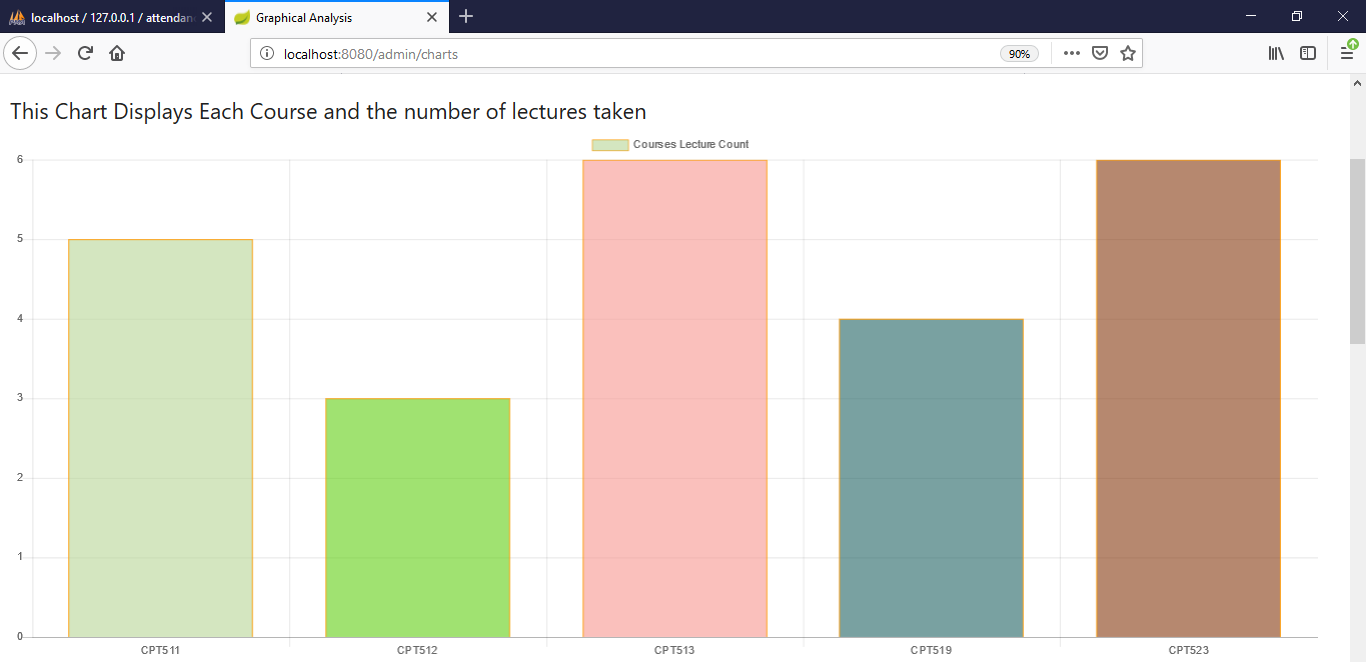
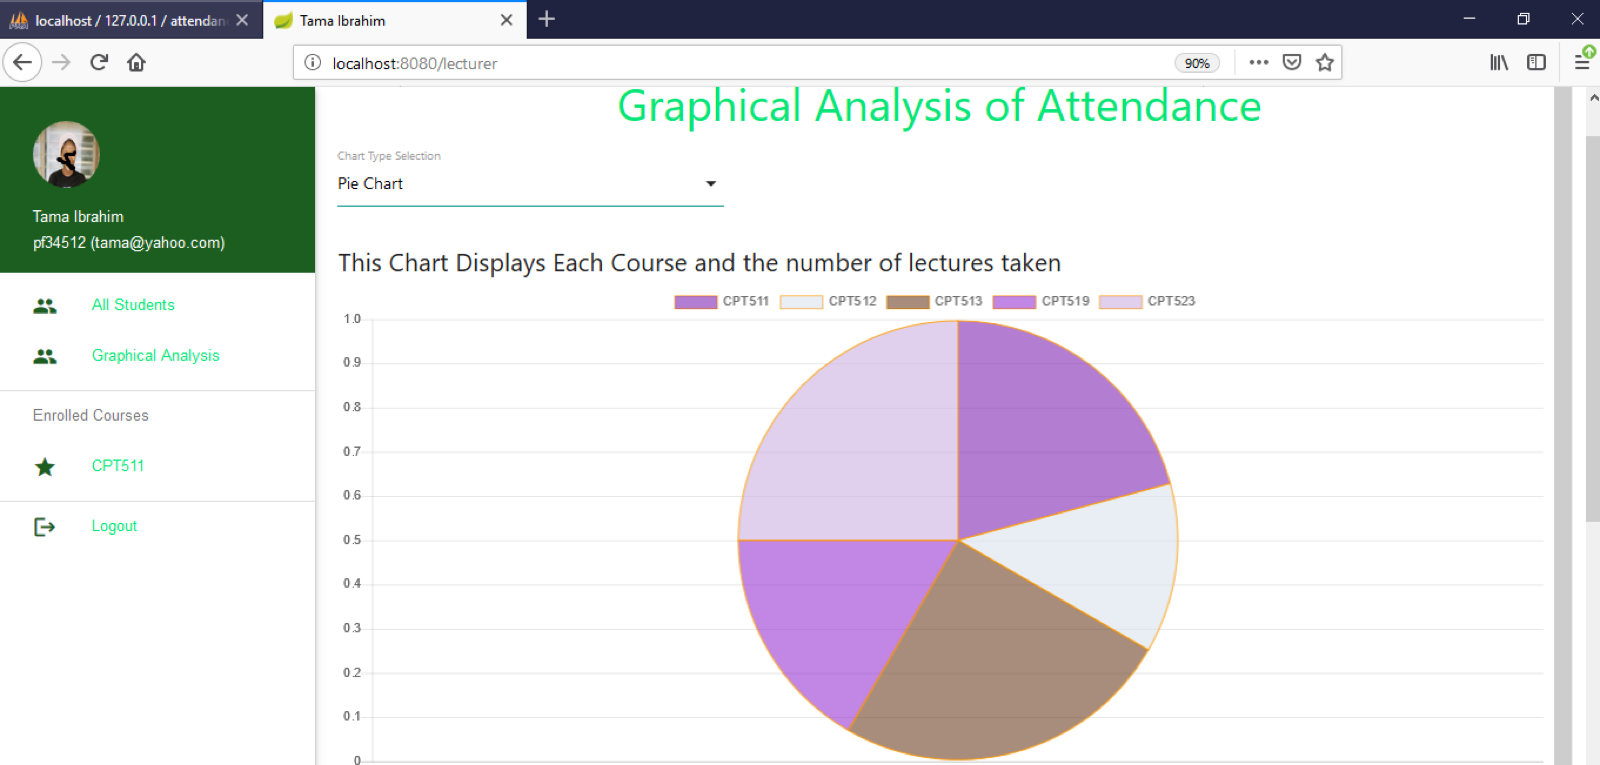
Expand project galleries and add project years

diff --git a/projects.html b/projects.html
@@ -86,17 +86,17 @@
             <div class="project-grid">
                 <article class="project-card">
                     <div class="project-card-body">
-                        <p class="project-context">Research program · Co-developer</p>
+                        <p class="project-context">Research program · Co-developer · 2022–present</p>
                         <h3>FORAP Research Program</h3>
                         <p>Co-developed an expert-validated framework and a portfolio of adoption-ready project-based learning packages used to help instructors adapt authentic computing projects across institutions.</p>
                         <ul class="project-tags" aria-label="Technologies and topics"><li>PjBL</li><li>Framework design</li><li>Multi-institution research</li></ul>
-                        <div class="project-links"><a href="https://forap-docs.github.io/" target="_blank" rel="noopener noreferrer">Project site <i class="fas fa-external-link-alt" aria-hidden="true"></i></a><button class="project-gallery-link" type="button" data-gallery="images/thumbs/forap_framework_evaluation.png" data-gallery-alt="FORAP framework evaluation workflow" aria-label="View FORAP project image">View image <i class="far fa-images" aria-hidden="true"></i></button></div>
+                        <div class="project-links"><a href="https://forap-docs.github.io/" target="_blank" rel="noopener noreferrer">Project site <i class="fas fa-external-link-alt" aria-hidden="true"></i></a><button class="project-gallery-link" type="button" data-gallery="images/projects/forap-architecture.png|images/projects/forap-evaluation-methodology.png" data-gallery-alt="FORAP architecture and evaluation methodology" aria-label="View FORAP architecture and methodology images">View images <i class="far fa-images" aria-hidden="true"></i></button></div>
                     </div>
                 </article>
 
                 <article class="project-card compact-project-card">
                     <div class="project-card-body">
-                        <p class="project-context">Research software · Lead developer</p>
+                        <p class="project-context">Research software · Lead developer · 2024–present</p>
                         <h3>LLM-Assisted Computing Education Tools</h3>
                         <p>Built tools for generating design problems, project scaffolds, tasks, rubrics, sample solutions, and evaluation workflows using large language models and retrieval-assisted pipelines.</p>
                         <ul class="project-tags" aria-label="Technologies"><li>Flask</li><li>Vue</li><li>PostgreSQL</li><li>OpenAI &amp; Gemini</li></ul>
@@ -105,17 +105,17 @@
 
                 <article class="project-card">
                     <div class="project-card-body">
-                        <p class="project-context">Empirical software engineering · Research contributor</p>
+                        <p class="project-context">Empirical software engineering · Research contributor · 2022–present</p>
                         <h3>Android Log Analysis Research Tooling</h3>
                         <p>Contributed data-processing and analysis workflows for studying privacy disclosure, third-party library logs, fault diagnosis, and LLM-assisted bug-report decomposition in Android systems.</p>
                         <ul class="project-tags" aria-label="Technologies and topics"><li>Android logs</li><li>Python</li><li>LLMs</li><li>Empirical analysis</li></ul>
-                        <div class="project-links"><a href="research.html">Related research</a><button class="project-gallery-link" type="button" data-gallery="images/thumbs/privacy_logs_workflow.png" data-gallery-alt="Workflow for analyzing privacy disclosures and Android application logs" aria-label="View Android log analysis project image">View image <i class="far fa-images" aria-hidden="true"></i></button></div>
+                        <div class="project-links"><a href="research.html">Related research</a><button class="project-gallery-link" type="button" data-gallery="images/thumbs/privacy_logs_workflow.png|images/thumbs/android_fault_logs.png|images/thumbs/bug.png" data-gallery-alt="Android log analysis and bug-report research workflows" aria-label="View Android log analysis project images">View images <i class="far fa-images" aria-hidden="true"></i></button></div>
                     </div>
                 </article>
 
                 <article class="project-card compact-project-card">
                     <div class="project-card-body">
-                        <p class="project-context">Research support system · Lead developer</p>
+                        <p class="project-context">Research support system · Lead developer · 2025–present</p>
                         <h3>RandomQuiz</h3>
                         <p>Built an assessment platform with randomized problem slots, public attempts, rubric-based grading, timelines, CSV workflows, correlations, agreement analysis, and dashboards.</p>
                         <ul class="project-tags" aria-label="Technologies"><li>Django REST</li><li>React</li><li>Vite</li><li>Analytics</li></ul>
@@ -125,7 +125,7 @@
 
                 <article class="project-card compact-project-card">
                     <div class="project-card-body">
-                        <p class="project-context">Research support utility · Lead developer</p>
+                        <p class="project-context">Research support utility · Lead developer · 2025</p>
                         <h3>Exam Handwriting Extractor</h3>
                         <p>Created a Python utility that uses Gemini to extract handwritten exam responses and rubric selections from uploaded PDFs into structured text outputs.</p>
                         <ul class="project-tags" aria-label="Technologies"><li>Python</li><li>Gemini API</li><li>PDF processing</li></ul>
@@ -135,7 +135,7 @@
 
                 <article class="project-card compact-project-card">
                     <div class="project-card-body">
-                        <p class="project-context">Research infrastructure · System administrator</p>
+                        <p class="project-context">Research infrastructure · System administrator · 2022–present</p>
                         <h3>OpenHPC Research Cluster</h3>
                         <p>Configured and maintained a 20-node Red Hat OpenHPC cluster with 640 CPU cores, job scheduling, distributed execution, and operational monitoring for research simulations.</p>
                         <ul class="project-tags" aria-label="Technologies"><li>Red Hat OpenHPC</li><li>Slurm</li><li>OpenMPI</li><li>Prometheus</li><li>Grafana</li></ul>
@@ -152,7 +152,7 @@
             <div class="project-grid">
                 <article class="project-card compact-project-card">
                     <div class="project-card-body">
-                        <p class="project-context">TTF Ltd. · Team lead</p>
+                        <p class="project-context">TTF Ltd. · Team lead · 2020–2021</p>
                         <h3>Lagos State Safety Registration Portal</h3>
                         <p>Led a three-engineer team building the public login and registration portal, payment platform, evidence review, physical-verification workflows, searchable records, the administrative dashboard, and customized certificate generation.</p>
                         <ul class="project-tags" aria-label="Technologies"><li>Laravel</li><li>PHP</li><li>MySQL</li><li>Bootstrap</li></ul>
@@ -162,26 +162,27 @@
 
                 <article class="project-card compact-project-card">
                     <div class="project-card-body">
-                        <p class="project-context">TTF Ltd. · Team lead</p>
+                        <p class="project-context">TTF Ltd. · Team lead · 2020–2021</p>
                         <h3>Sterling Bank HRMS</h3>
                         <p>Led development of a role-based human-resource and loan-management system with agent records, performance views, applications, transactions, disbursement, and administrative analytics.</p>
                         <ul class="project-tags" aria-label="Technologies"><li>Java</li><li>Spring</li><li>MySQL</li></ul>
+                        <div class="project-links"><button class="project-gallery-link" type="button" data-gallery="images/projects/sterling-hrms-login.png" data-gallery-alt="Sterling Bank HRMS login interface" aria-label="View Sterling Bank HRMS image">View image <i class="far fa-images" aria-hidden="true"></i></button></div>
                     </div>
                 </article>
 
                 <article class="project-card">
                     <div class="project-card-body">
-                        <p class="project-context">TTF Ltd. · Team lead</p>
+                        <p class="project-context">TTF Ltd. · Team lead · 2020–2021</p>
                         <h3>Nuli Lounge Ordering System</h3>
                         <p>Led a three-engineer team delivering customer ordering and back-office operations for menus, multiple locations, scheduled orders, payments, delivery tracking, and administration.</p>
                         <ul class="project-tags" aria-label="Technologies"><li>Laravel</li><li>PHP</li><li>MySQL</li><li>Payments</li></ul>
-                        <div class="project-links"><button class="project-gallery-link" type="button" data-gallery="images/projects/nuli-menu.png|images/projects/nuli-delivery.png" data-gallery-alt="Nuli Lounge Ordering System" aria-label="View Nuli Lounge Ordering System images">View images <i class="far fa-images" aria-hidden="true"></i></button></div>
+                        <div class="project-links"><button class="project-gallery-link" type="button" data-gallery="images/projects/nuli-menu.png|images/projects/nuli-delivery.png|images/projects/nuli-admin-dashboard.png|images/projects/nuli-order-tracking.png" data-gallery-alt="Nuli Lounge Ordering System customer and administration interfaces" aria-label="View Nuli Lounge Ordering System images">View images <i class="far fa-images" aria-hidden="true"></i></button></div>
                     </div>
                 </article>
 
                 <article class="project-card compact-project-card">
                     <div class="project-card-body">
-                        <p class="project-context">Legalfit LLC · Software engineer</p>
+                        <p class="project-context">Legalfit LLC · Software engineer · 2021</p>
                         <h3>Law-Firm CMS &amp; Website Templates</h3>
                         <p>Developed and optimized content-management features, improved Core Web Vitals, and implemented six responsive law-firm website templates from Adobe XD designs.</p>
                         <ul class="project-tags" aria-label="Technologies"><li>Django</li><li>Vue.js</li><li>PostgreSQL</li><li>AWS</li><li>Jinja</li></ul>
@@ -191,7 +192,7 @@
 
                 <article class="project-card">
                     <div class="project-card-body">
-                        <p class="project-context">DiceBox Innovation Hub · Team lead</p>
+                        <p class="project-context">DiceBox Innovation Hub · Team lead · 2018–2020</p>
                         <h3>Biometric Student Attendance System</h3>
                         <p>Led a two-engineer team building course and student management, fingerprint enrollment and verification, face recognition, attendance records, and administrative analytics.</p>
                         <ul class="project-tags" aria-label="Technologies"><li>JavaFX</li><li>Spring Boot</li><li>MySQL &amp; PostgreSQL</li><li>Biometrics</li></ul>
@@ -201,7 +202,7 @@
 
                 <article class="project-card compact-project-card">
                     <div class="project-card-body">
-                        <p class="project-context">DiceBox Innovation Hub · Lead developer</p>
+                        <p class="project-context">DiceBox Innovation Hub · Lead developer · 2019</p>
                         <h3>Android QR POS &amp; Inventory System</h3>
                         <p>Created a mobile point-of-sale and inventory application for products, QR/barcode scanning, carts, sales records, stock tracking, and PDF output.</p>
                         <ul class="project-tags" aria-label="Technologies"><li>Android</li><li>Java</li><li>Room</li><li>QR/barcodes</li></ul>
@@ -210,7 +211,7 @@
 
                 <article class="project-card compact-project-card">
                     <div class="project-card-body">
-                        <p class="project-context">DiceBox Innovation Hub · Lead developer</p>
+                        <p class="project-context">DiceBox Innovation Hub · Lead developer · 2018–2020</p>
                         <h3>QR Event Attendance</h3>
                         <p>Built an event check-in application that scans a registration QR code, validates the attendee, and records admission or attendance.</p>
                         <ul class="project-tags" aria-label="Technologies"><li>Android</li><li>Kotlin &amp; Java</li><li>Firebase</li><li>QR codes</li></ul>
@@ -219,7 +220,7 @@
 
                 <article class="project-card compact-project-card">
                     <div class="project-card-body">
-                        <p class="project-context">IHS Towers · Internship project</p>
+                        <p class="project-context">IHS Towers · Internship project · 2018</p>
                         <h3>Offline Site-Survey Data Collection</h3>
                         <p>Developed an Android field-survey application that captures records without connectivity and synchronizes them later for centralized reporting.</p>
                         <ul class="project-tags" aria-label="Technologies"><li>Android</li><li>Java</li><li>Kotlin</li><li>Offline sync</li></ul>
@@ -236,7 +237,7 @@
             <div class="project-grid">
                 <article class="project-card">
                     <div class="project-card-body">
-                        <p class="project-context">Research software · System implementation</p>
+                        <p class="project-context">Research software · System implementation · 2018–2020</p>
                         <h3>USSD Cashless Revenue Collection System</h3>
                         <p>Implemented a motorist-focused USSD and e-wallet prototype supporting enrollment, payment points, checkpoints, top-ups, validation, reporting, and administrative dashboards.</p>
                         <ul class="project-tags" aria-label="Technologies"><li>Java</li><li>Android</li><li>USSD</li><li>Tomcat</li><li>MySQL</li></ul>
@@ -246,7 +247,7 @@
 
                 <article class="project-card compact-project-card">
                     <div class="project-card-body">
-                        <p class="project-context">Personal project · Team lead</p>
+                        <p class="project-context">Personal project · Team lead · 2019–2020</p>
                         <h3>Gidangona Poultry Platform</h3>
                         <p>Led development of a combined Android and web platform for poultry management and e-commerce, covering production records, feed and water tracking, analytics, veterinary access, products, and orders.</p>
                         <ul class="project-tags" aria-label="Technologies and platforms"><li>Android</li><li>Java</li><li>Web</li><li>PHP</li><li>MySQL</li></ul>
@@ -255,16 +256,17 @@
 
                 <article class="project-card compact-project-card">
                     <div class="project-card-body">
-                        <p class="project-context">TETFund-funded project · Lead developer</p>
+                        <p class="project-context">TETFund-funded project · Lead developer · 2019–2020</p>
                         <h3>TASUED Maths</h3>
                         <p>Built an Android application that helps students learn mathematics through instructional topics, worked examples, exercises, answer explanations, practice, progress tracking, and speech-enabled interaction.</p>
                         <ul class="project-tags" aria-label="Technologies"><li>Android</li><li>Java</li><li>Room</li><li>Text-to-speech</li></ul>
+                        <div class="project-links"><button class="project-gallery-link" type="button" data-gallery="images/projects/tasued-maths-login.png" data-gallery-alt="TASUED Maths Android application login screen" aria-label="View TASUED Maths project image">View image <i class="far fa-images" aria-hidden="true"></i></button></div>
                     </div>
                 </article>
 
                 <article class="project-card compact-project-card">
                     <div class="project-card-body">
-                        <p class="project-context">Field operations · Mobile and desktop system</p>
+                        <p class="project-context">Field operations · Mobile and desktop system · 2018–2020</p>
                         <h3>RBI Fire-Station Reporting System</h3>
                         <p>Built an Android application for reporting from fire stations, paired with a Java desktop interface for administrators to review and manage submissions.</p>
                         <ul class="project-tags" aria-label="Technologies and platforms"><li>Android</li><li>Java</li><li>Mobile reporting</li><li>Desktop administration</li></ul>
@@ -273,17 +275,17 @@
 
                 <article class="project-card compact-project-card">
                     <div class="project-card-body">
-                        <p class="project-context">Final-year research project · Lead developer</p>
+                        <p class="project-context">Final-year research project · Lead developer · 2019</p>
                         <h3>FUT Minna Campus Information Chatbot</h3>
                         <p>Developed an Android conversational assistant and Java backend for campus FAQs, broadcasts, polls, offline history, authentication, and real-time or offline messaging.</p>
                         <ul class="project-tags" aria-label="Technologies"><li>Spring Boot</li><li>WebSocket</li><li>Hibernate Search</li><li>Android</li><li>Room</li></ul>
-                        <div class="project-links"><a href="https://github.com/ahmadfantastic/FUT-Minna-Chatbot-Android" target="_blank" rel="noopener noreferrer">Android <i class="fab fa-github" aria-hidden="true"></i></a><a href="https://github.com/ahmadfantastic/FUT-Minna-Chatbot-Server" target="_blank" rel="noopener noreferrer">Server <i class="fab fa-github" aria-hidden="true"></i></a></div>
+                        <div class="project-links"><a href="https://github.com/ahmadfantastic/FUT-Minna-Chatbot-Android" target="_blank" rel="noopener noreferrer">Android <i class="fab fa-github" aria-hidden="true"></i></a><a href="https://github.com/ahmadfantastic/FUT-Minna-Chatbot-Server" target="_blank" rel="noopener noreferrer">Server <i class="fab fa-github" aria-hidden="true"></i></a><button class="project-gallery-link" type="button" data-gallery="images/projects/fut-minna-chatbot-welcome.jpg|images/projects/fut-minna-chatbot-poll.jpg|images/projects/fut-minna-chatbot-image-answer-face-blurred.png" data-gallery-alt="FUT Minna Campus Information Chatbot conversations, polling, and image response" aria-label="View FUT Minna Chatbot project images">View images <i class="far fa-images" aria-hidden="true"></i></button></div>
                     </div>
                 </article>
 
                 <article class="project-card compact-project-card">
                     <div class="project-card-body">
-                        <p class="project-context">Google Africa Challenge Scholarship project</p>
+                        <p class="project-context">Google Africa Challenge Scholarship project · 2018</p>
                         <h3>Journal App</h3>
                         <p>Built an Android journaling application for the 7DaysOfCodeChallenge with Google Sign-In, local persistence, lifecycle-aware state, and create, update, and list workflows.</p>
                         <ul class="project-tags" aria-label="Technologies"><li>Android</li><li>Java</li><li>Room</li><li>ViewModel</li><li>LiveData</li></ul>
@@ -301,44 +303,47 @@
             <div class="project-grid">
                 <article class="project-card compact-project-card">
                     <div class="project-card-body">
-                        <p class="project-context">Deep learning · Team project lead</p>
+                        <p class="project-context">Deep learning · Team project lead · 2023</p>
                         <h3>Automated Pediatric Ear Segmentation &amp; Orientation</h3>
                         <p>Led a pipeline combining YOLOv5 region detection, a 55-landmark convolutional model, and landmark-based orientation for pediatric ear images.</p>
                         <ul class="project-tags" aria-label="Technologies"><li>Python</li><li>YOLOv5</li><li>CNNs</li><li>Computer vision</li></ul>
+                        <div class="project-links"><button class="project-gallery-link" type="button" data-gallery="images/projects/ear-segmentation-workflow.png" data-gallery-alt="Automated pediatric ear segmentation and orientation workflow" aria-label="View automated ear segmentation project image">View image <i class="far fa-images" aria-hidden="true"></i></button></div>
                     </div>
                 </article>
 
                 <article class="project-card compact-project-card">
                     <div class="project-card-body">
-                        <p class="project-context">Computer networks · Team project lead</p>
+                        <p class="project-context">Computer networks · Team project lead · 2023</p>
                         <h3>DV-Hop Localization Under Regular &amp; Critical Conditions</h3>
                         <p>Led simulation of wireless-sensor localization under normal operation and progressive node-loss conditions, exploring robustness as anchor availability changed.</p>
                         <ul class="project-tags" aria-label="Technologies"><li>ns-3</li><li>MATLAB</li><li>Wireless sensor networks</li></ul>
+                        <div class="project-links"><button class="project-gallery-link" type="button" data-gallery="images/projects/dv-hop-node-positions.png|images/projects/dv-hop-regular-error.png|images/projects/dv-hop-critical-error.png" data-gallery-alt="DV-Hop localization simulation and error results" aria-label="View DV-Hop project images">View images <i class="far fa-images" aria-hidden="true"></i></button></div>
                     </div>
                 </article>
 
                 <article class="project-card compact-project-card">
                     <div class="project-card-body">
-                        <p class="project-context">Artificial intelligence &amp; cyberinfrastructure</p>
+                        <p class="project-context">Artificial intelligence &amp; cyberinfrastructure · 2023 &amp; 2025</p>
                         <h3>Chess Checkmate Puzzle Solver</h3>
                         <p>Led the original team solver, then extended it individually at RIT to evaluate CPU and GPU parallelization for minimax search with alpha-beta pruning and search optimizations.</p>
                         <ul class="project-tags" aria-label="Technologies"><li>Python</li><li>Minimax</li><li>Alpha-beta pruning</li><li>Parallel computing</li></ul>
-                        <div class="project-links"><a href="https://github.com/ahmadfantastic/chess_checkmate_puzzle_solver" target="_blank" rel="noopener noreferrer">Public code <i class="fab fa-github" aria-hidden="true"></i></a></div>
+                        <div class="project-links"><a href="https://github.com/ahmadfantastic/chess_checkmate_puzzle_solver" target="_blank" rel="noopener noreferrer">Public code <i class="fab fa-github" aria-hidden="true"></i></a><button class="project-gallery-link" type="button" data-gallery="images/projects/chess-puzzle-example.png|images/projects/chess-solver-demo.png|images/projects/chess-solver-results.png" data-gallery-alt="Chess checkmate puzzle solver demonstration and results" aria-label="View chess solver project images">View images <i class="far fa-images" aria-hidden="true"></i></button></div>
                     </div>
                 </article>
 
                 <article class="project-card compact-project-card">
                     <div class="project-card-body">
-                        <p class="project-context">Human-computer interaction · Team project lead</p>
+                        <p class="project-context">Human-computer interaction · Team project lead · 2024</p>
                         <h3>Camera Applications for Visually Impaired Users</h3>
                         <p>Led two voice-guided desktop applications: one assists selfie positioning and the other guides camera movement to place a detected object at a requested image location.</p>
                         <ul class="project-tags" aria-label="Technologies"><li>Python</li><li>PySide6</li><li>MediaPipe</li><li>YOLOv8</li><li>Speech interfaces</li></ul>
+                        <div class="project-links"><button class="project-gallery-link" type="button" data-gallery="images/projects/camera-static-scene.jpg|images/projects/camera-object-positioning.jpg" data-gallery-alt="Voice-guided camera application interfaces" aria-label="View camera applications project images">View images <i class="far fa-images" aria-hidden="true"></i></button></div>
                     </div>
                 </article>
 
                 <article class="project-card">
                     <div class="project-card-body">
-                        <p class="project-context">Computer vision · Individual project</p>
+                        <p class="project-context">Computer vision · Individual project · 2023</p>
                         <h3>CIFAR Image Classifier</h3>
                         <p>Implemented and evaluated a PyTorch convolutional network with training and validation splits, parameter comparisons, checkpoints, learning curves, and prediction visualizations.</p>
                         <ul class="project-tags" aria-label="Technologies"><li>PyTorch</li><li>CNNs</li><li>CIFAR</li><li>Experiment tracking</li></ul>
@@ -350,7 +355,7 @@
     </main>
 
     <footer>
-    <p>Last updated: August 23, 2026. <a href="https://ahmadfantastic.github.io">Ahmad D. Suleiman</a></p>
+    <p>Last updated: August 25, 2026. <a href="https://ahmadfantastic.github.io">Ahmad D. Suleiman</a></p>
     </footer>
     <div id="imageModal" class="modal" role="dialog" aria-modal="true" aria-label="Project image gallery">
         <button class="modal-close" type="button" onclick="closeModal()" aria-label="Close image preview">&times;</button>
